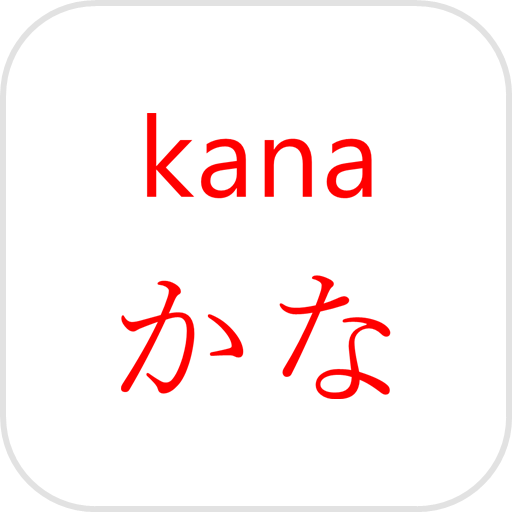
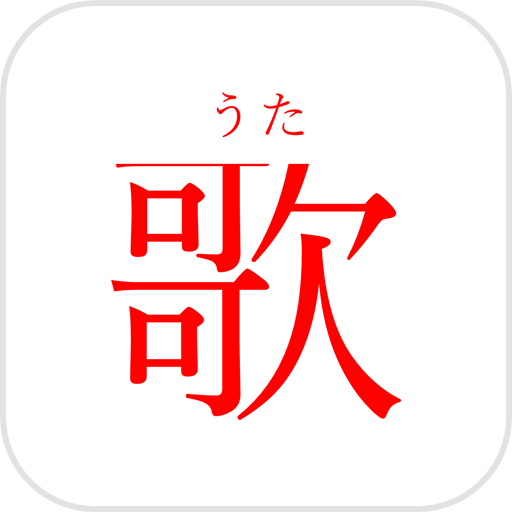
feat: 重设计图标为歌词读音标志

Changed region(s): [[0.2188, 0.1875, 0.7812, 0.8125]]

diff --git a/frontend/components/SiteHeader.tsx b/frontend/components/SiteHeader.tsx
@@ -50,8 +50,11 @@ export default function SiteHeader() {
           aria-label="KANA 首页"
           className="flex shrink-0 items-center gap-2.5"
         >
-          <span className="font-japanese grid h-8 w-8 place-items-center rounded-md bg-brand text-lg font-normal text-white">
-            歌
+          <span className="font-japanese relative grid h-8 w-8 place-items-center rounded-md border border-line bg-canvas text-brand">
+            <span className="absolute top-[2px] text-[6px] leading-none">
+              うた
+            </span>
+            <span className="mt-1.5 text-lg leading-none">歌</span>
           </span>
           <span className="hidden min-[380px]:block">
             <span className="block text-base font-bold leading-5">KANA</span>
